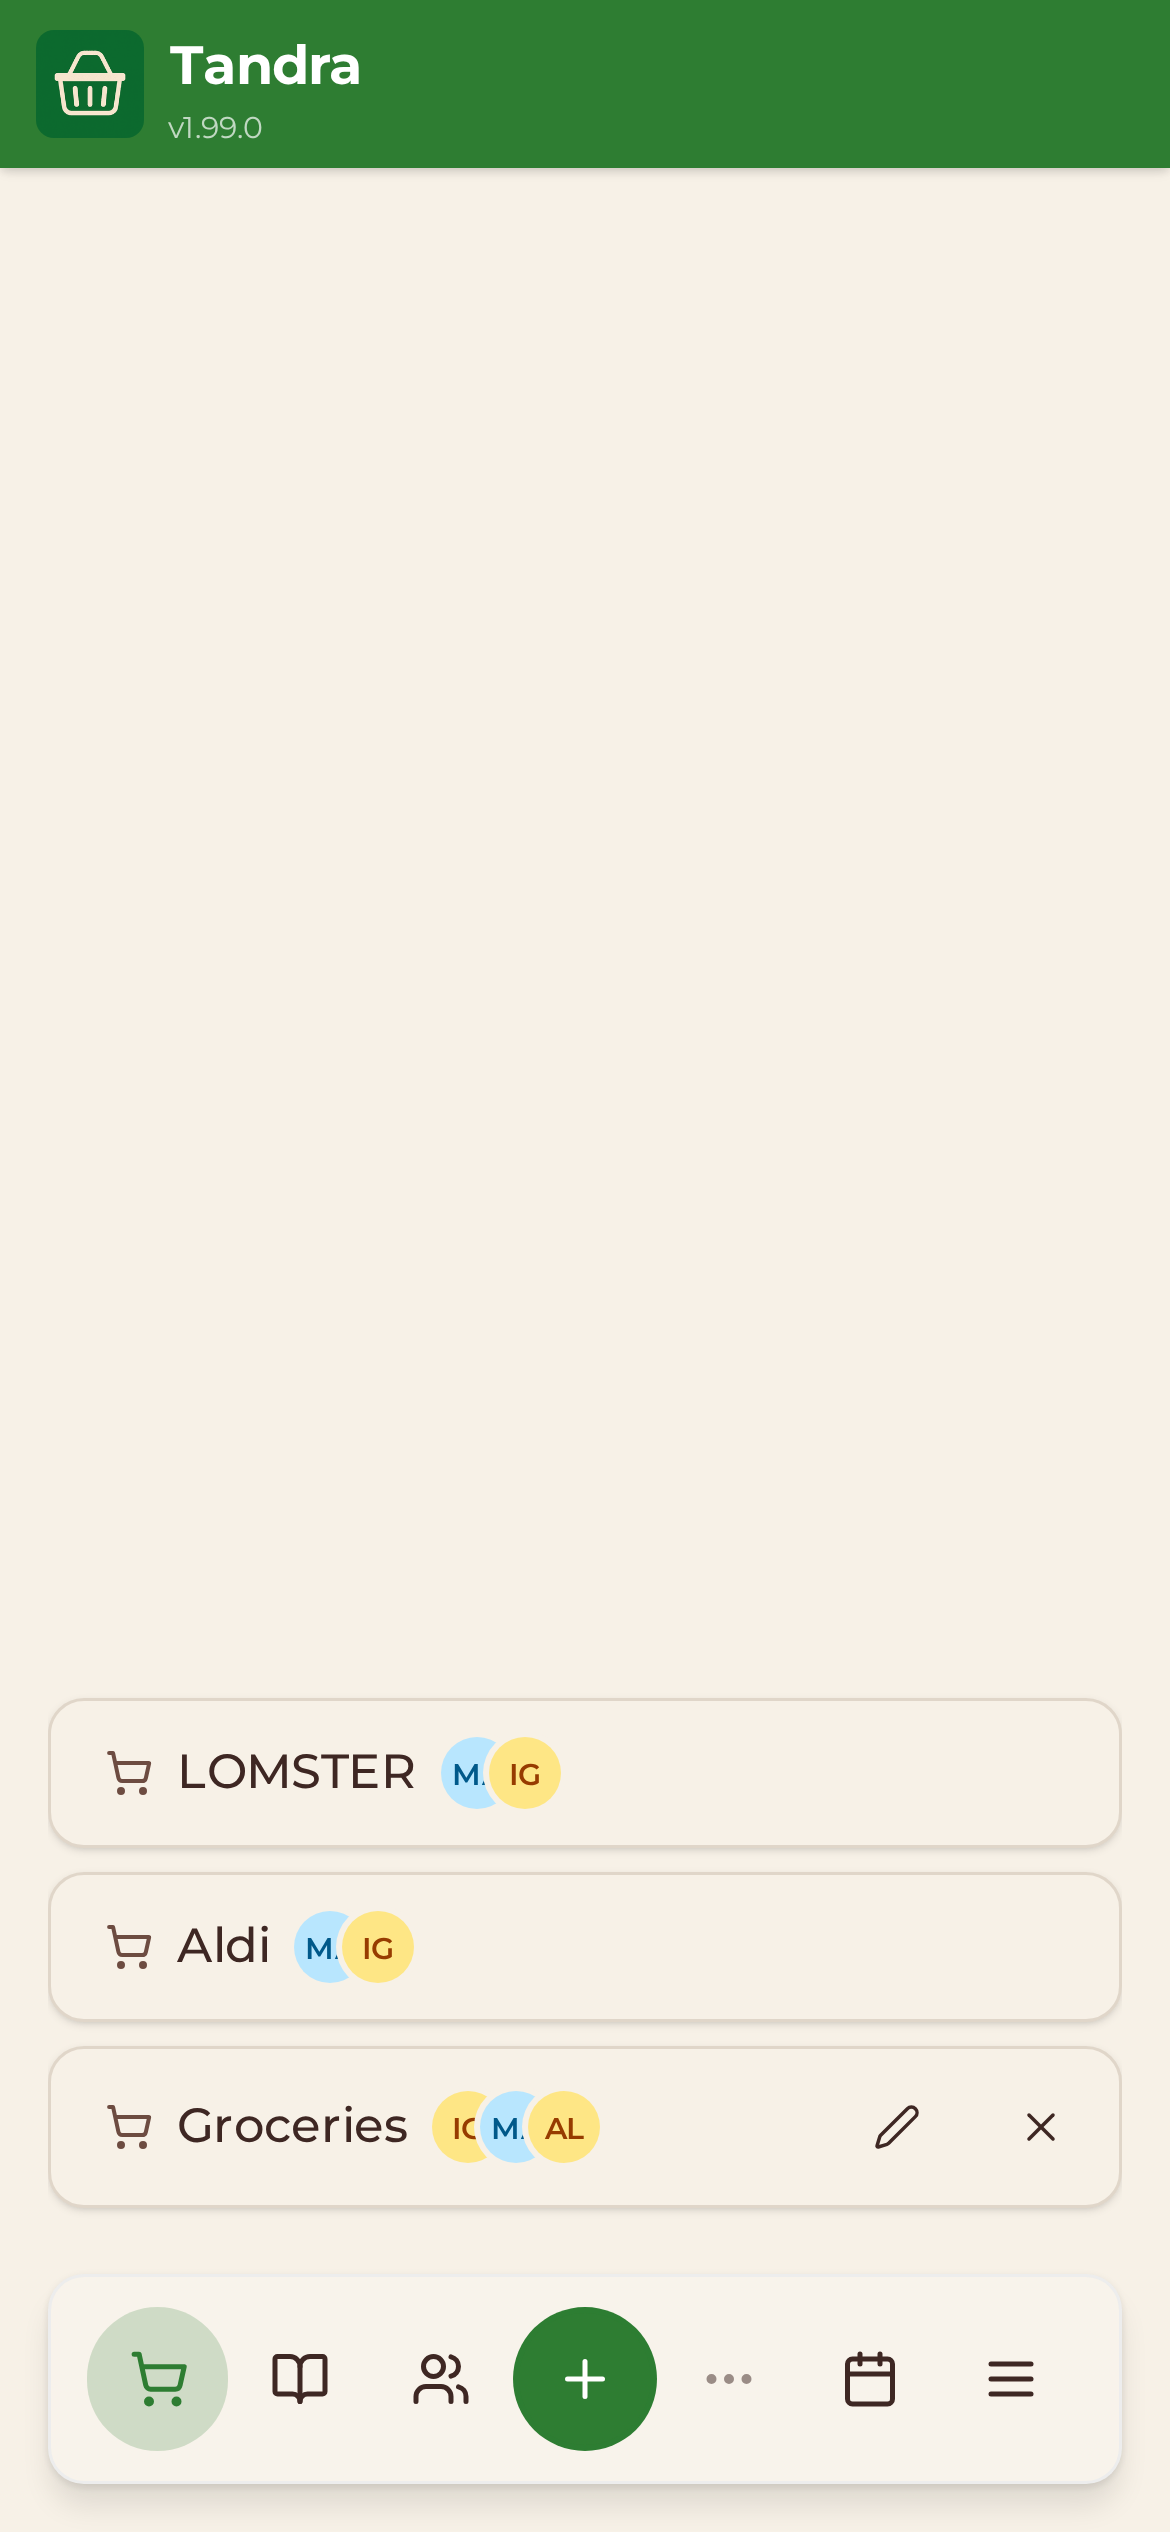
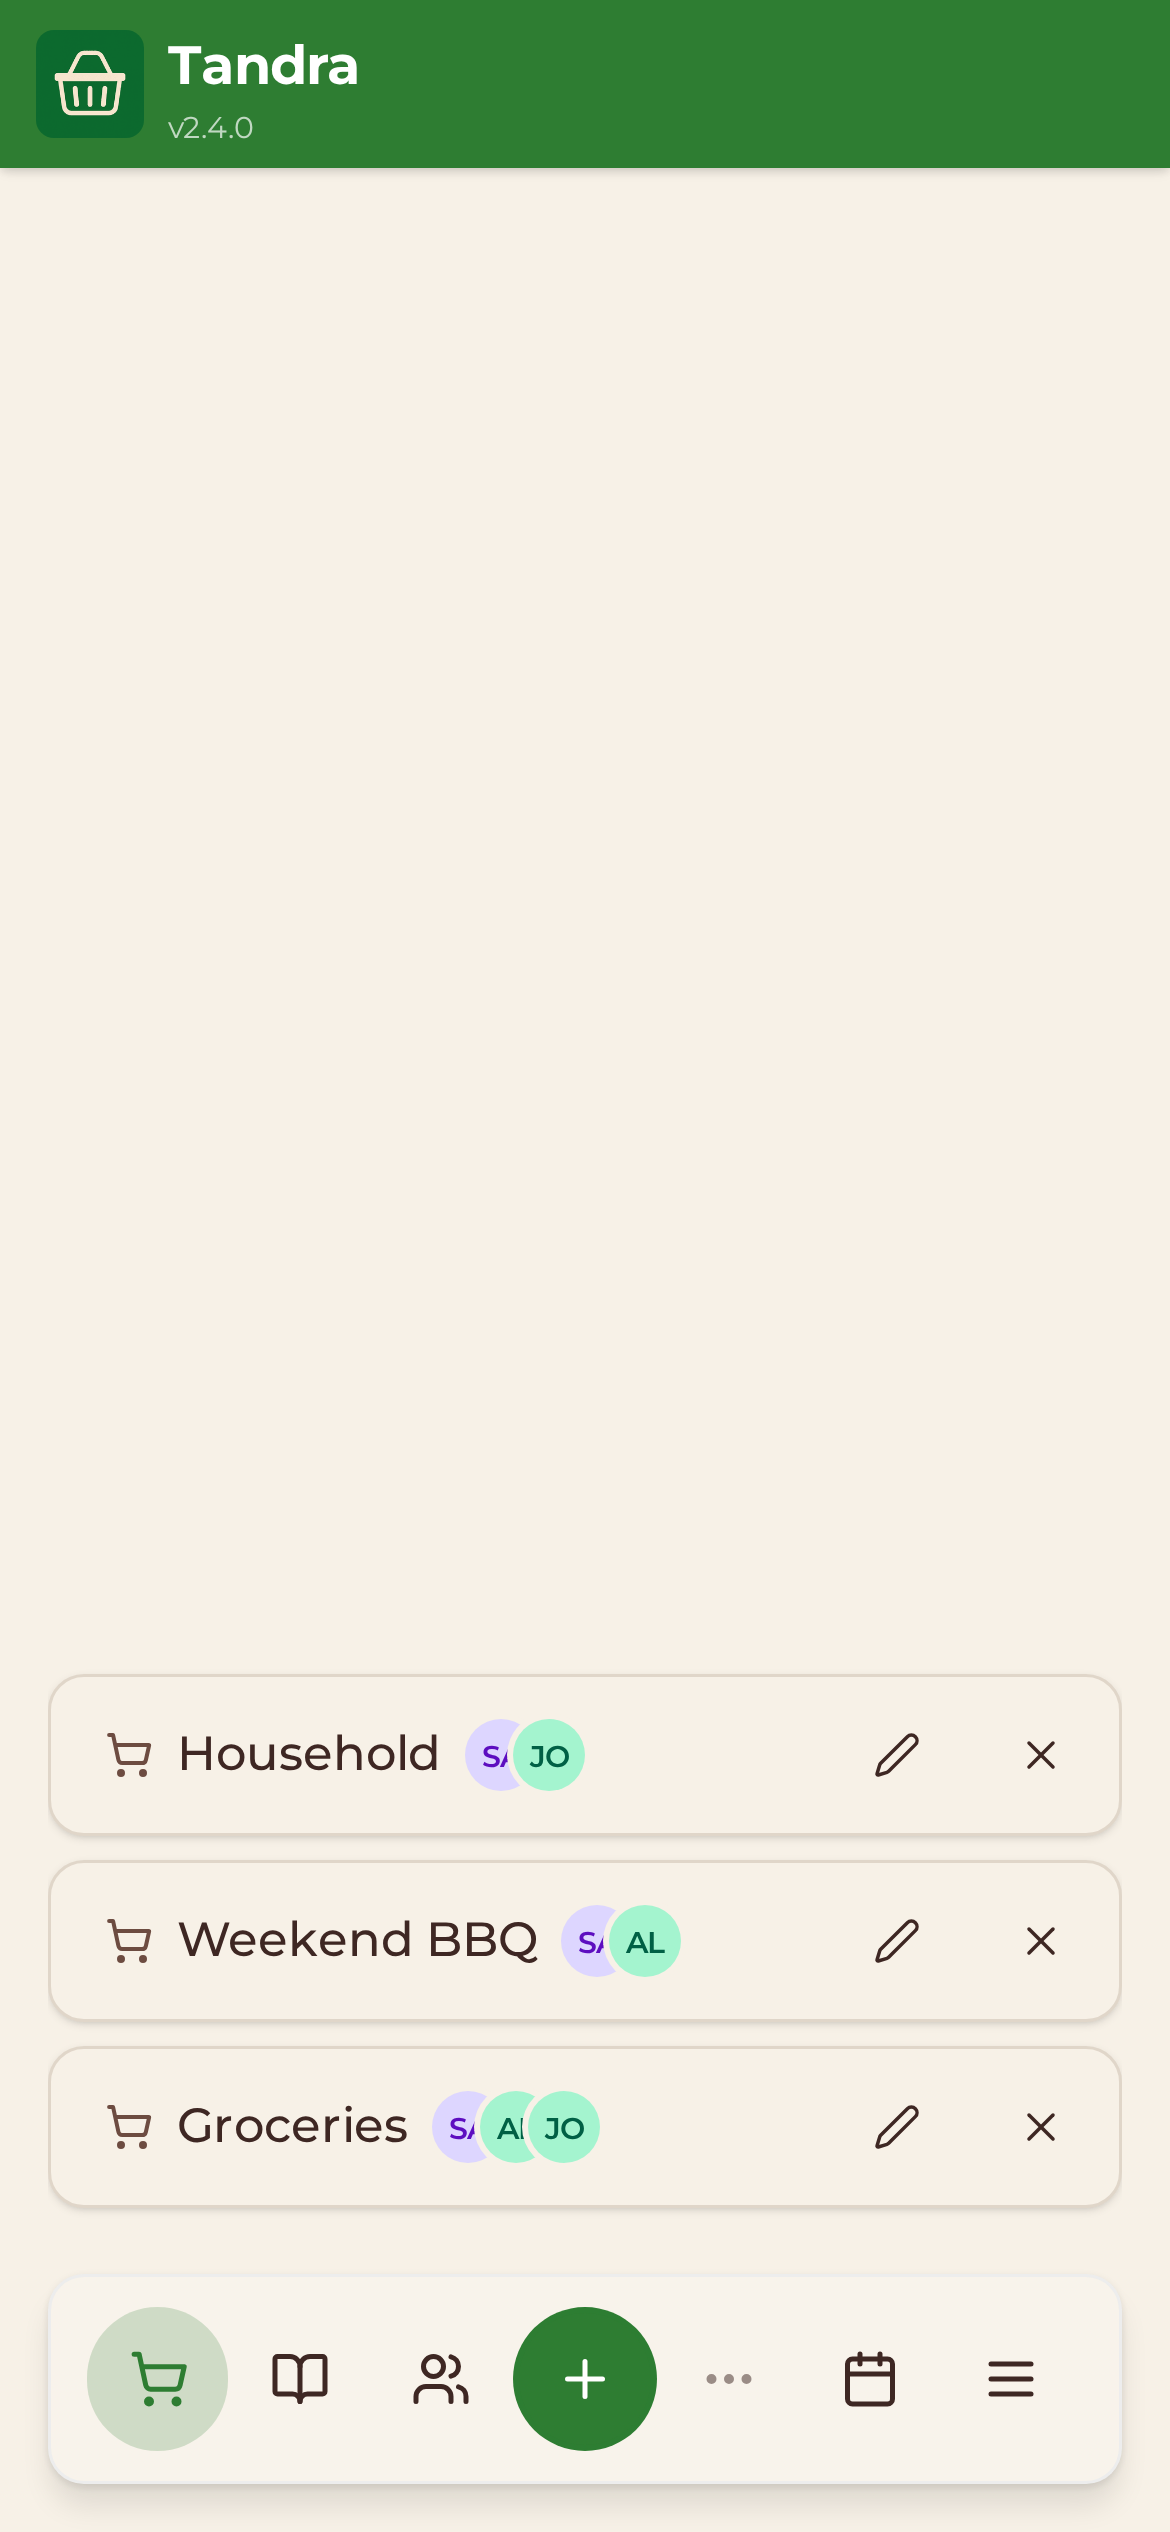
feat: show dark-mode app screenshots on the dark landing page (#14)
Phone.astro takes an optional darkSrc and renders a <picture> with a
prefers-color-scheme: dark <source>, so visitors on a dark system see
the app in its dark theme instead of a bright light-mode screen.

All five screens (light and dark) are recaptured from the samtandra
demo account on app.tandra.uk at 390x844 @3x, so both modes show the
same data and the current app version.

Release-Notes: In dark mode, the website now shows the app in its dark
theme too.

diff --git a/README.md b/README.md
@@ -88,7 +88,9 @@ scroll depth; it only sends once the tracker has a session. The e2e specs set
   on `tandra.uk`) there; `/?home` always shows this page.
   `public/sw.js` replaces the service worker the app registered on this origin before it moved.
 - Keystatic and the blog scaffolding were removed: the page is a single hand-written landing page.
-- App screenshots in `src/assets/screens` are captured from the live app on a phone-sized viewport (390x844 @3x).
+- App screenshots in `src/assets/screens` are captured from the live app on a phone-sized viewport (390x844 @3x),
+  signed in as the `samtandra` demo account (lists shared with `alextandra` and `jotandra`). Each has a `-dark`
+  twin captured in the app's dark theme; `Phone.astro` serves it when the visitor's system is in dark mode.
 
 ## Credits
 
